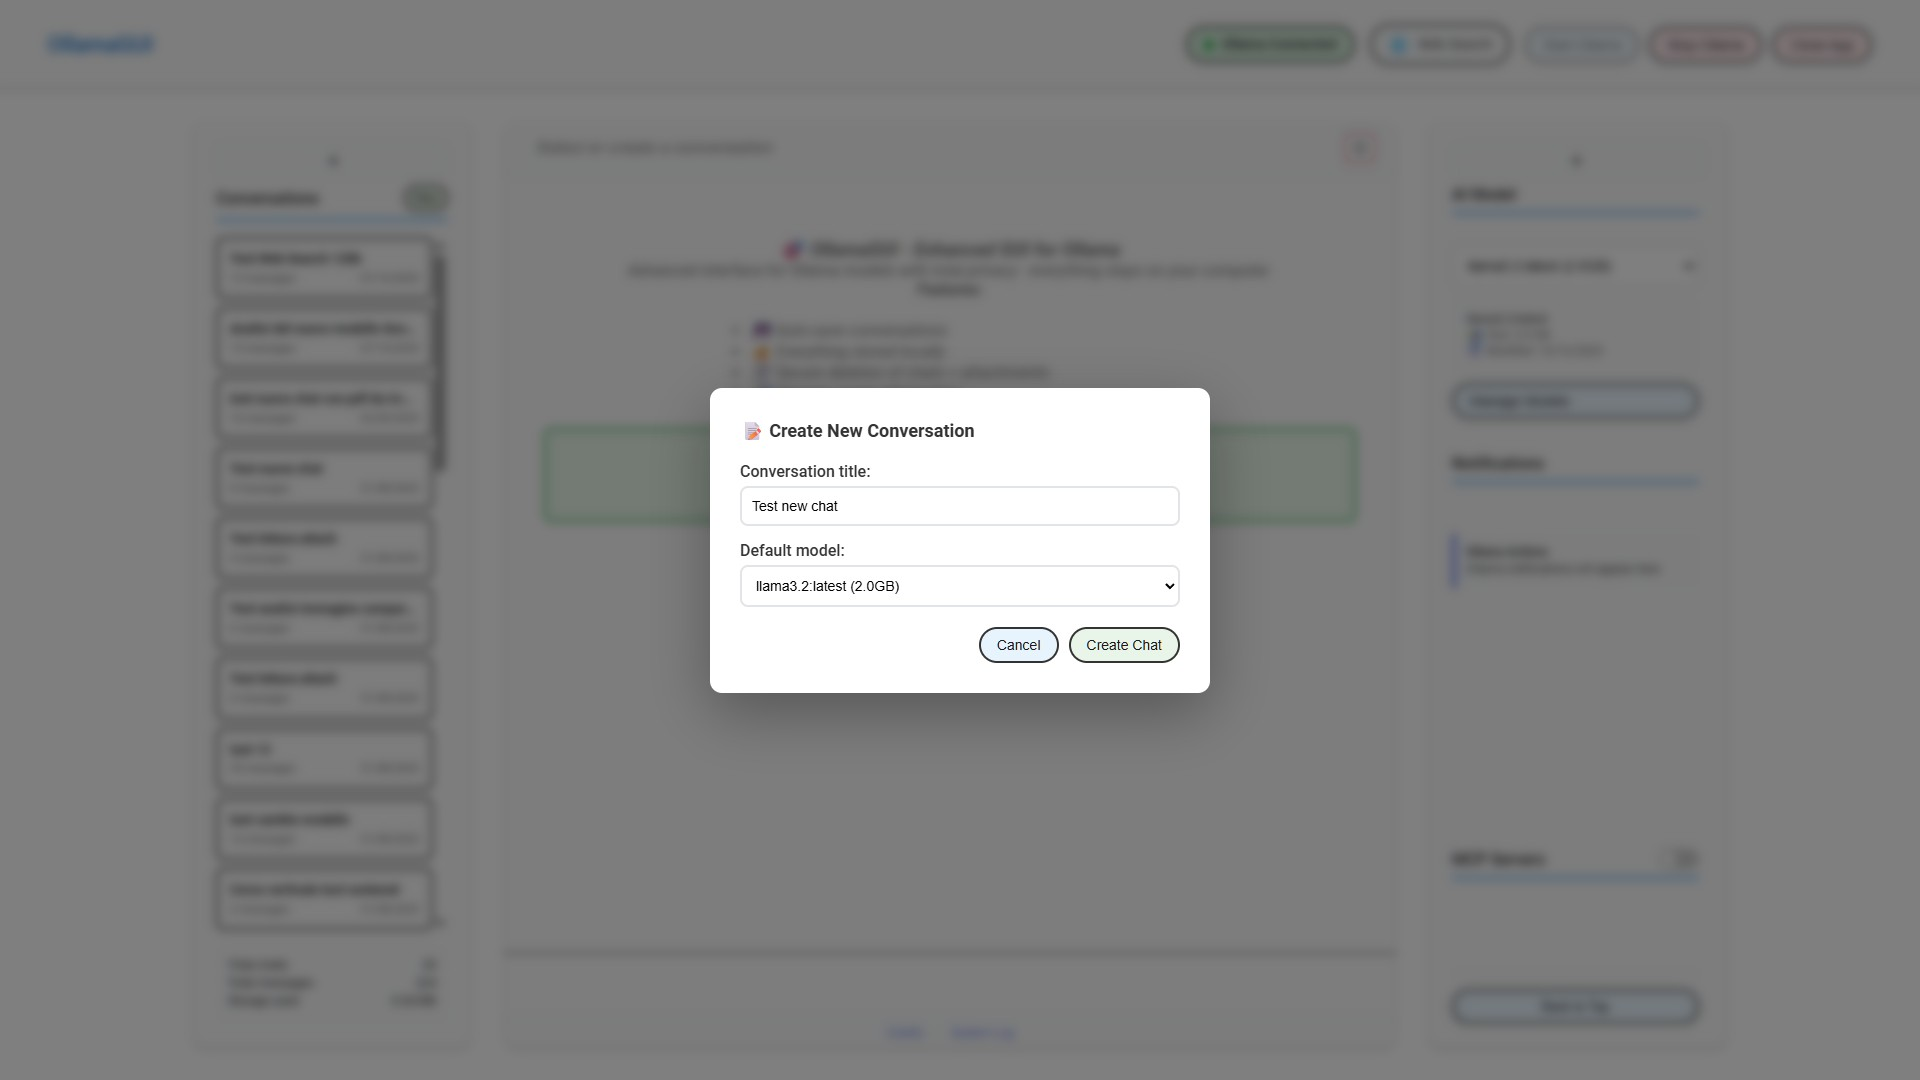
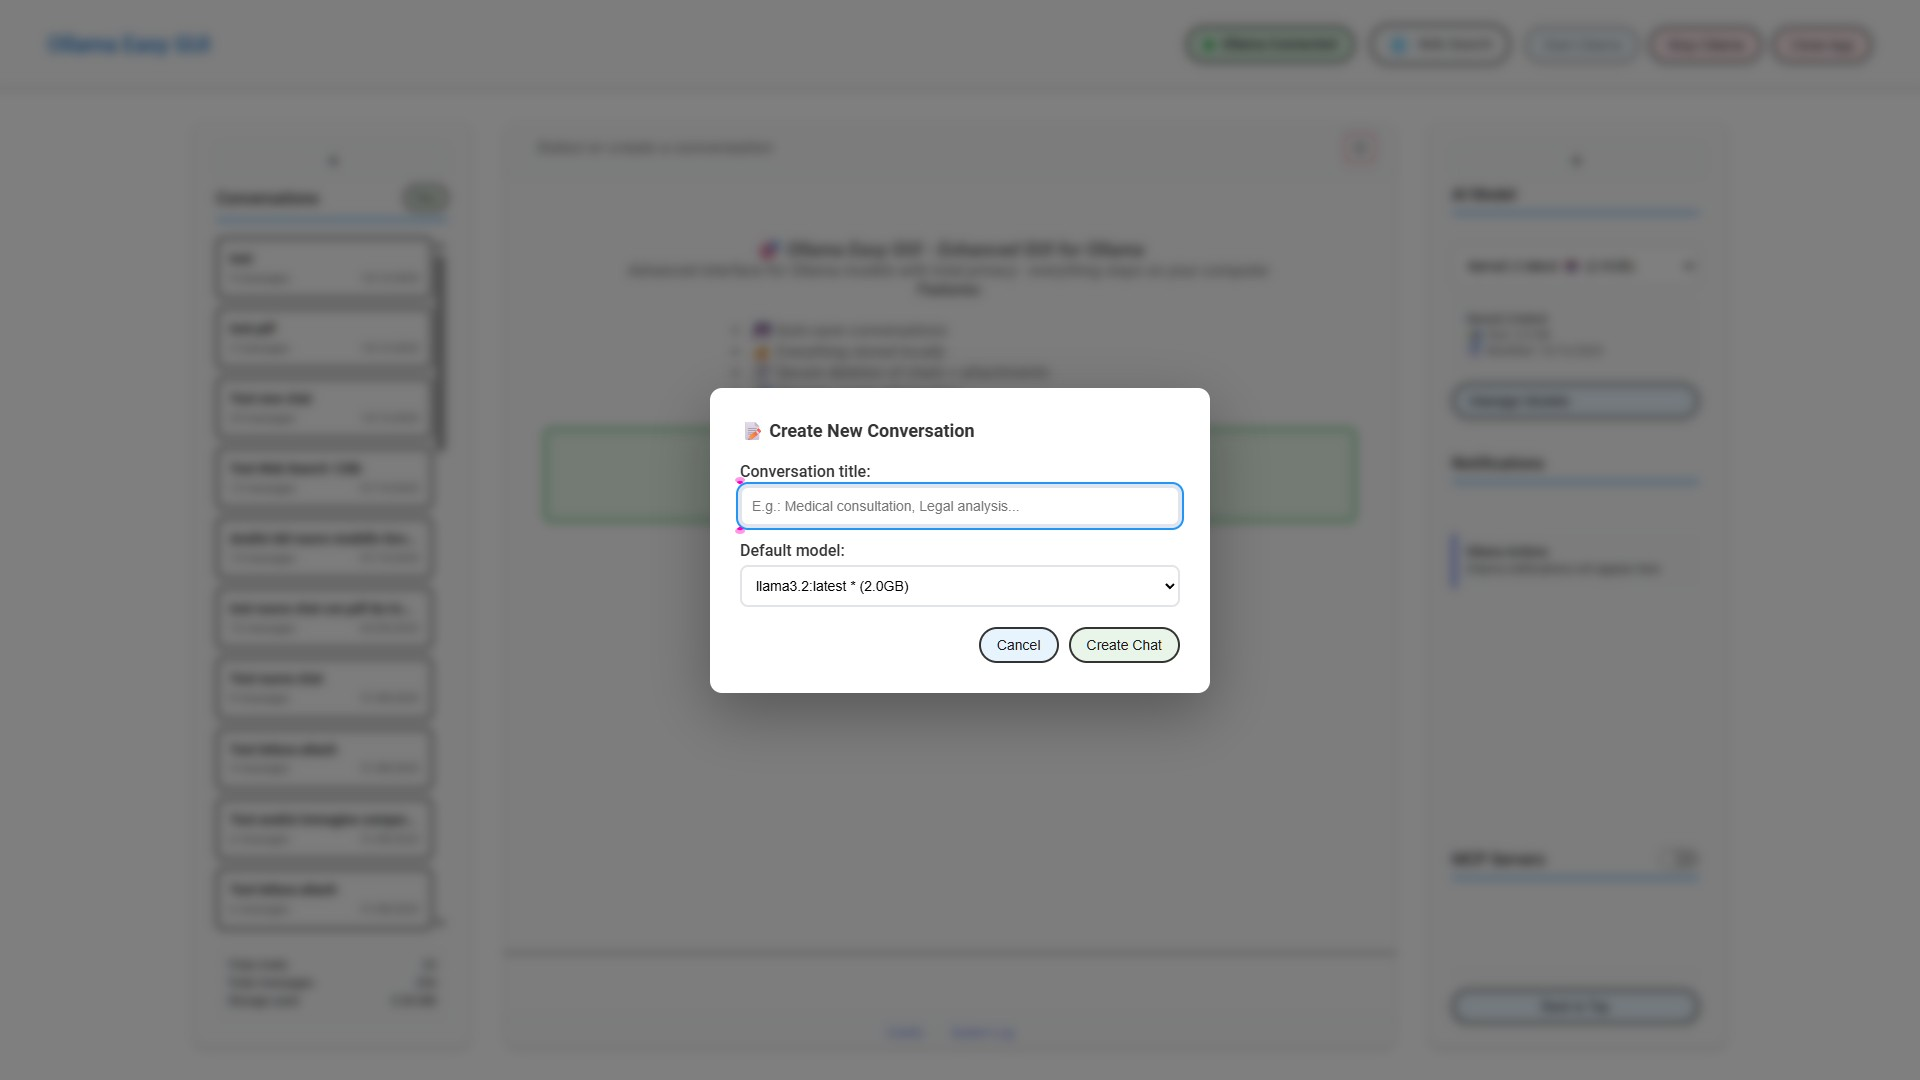
docs: Update README structure and refresh screenshots
- Move Installation section before Screenshots Gallery for better UX
- Add Git as prerequisite (was missing)
- Add new screenshot showing .bat update prompt
- Refresh all screenshots with updated "Ollama Easy GUI" branding

🤖 Generated with [Claude Code](https://claude.com/claude-code)

diff --git a/README.md b/README.md
@@ -69,6 +69,58 @@ Connect your AI to external tools - just like Claude Desktop:
 
 ---
 
+## Installation
+
+### Prerequisites
+
+> **Important**: Ollama Easy GUI is an interface for Ollama. You must have **Ollama installed** on your system first.
+
+1. **Install Ollama** (required): Download from [https://ollama.ai](https://ollama.ai)
+2. **Install Git**: Download from [https://git-scm.com](https://git-scm.com)
+3. **Install Node.js** 16.0.0 or higher: Download from [https://nodejs.org](https://nodejs.org)
+
+### Quick Start
+
+```bash
+# Clone the repository
+git clone https://github.com/paolodalprato/ollama-easy-gui.git
+
+# Navigate to directory
+cd ollama-easy-gui
+
+# Install dependencies (first time only)
+npm install
+
+# Start the application
+npm start
+```
+
+The GUI will open at `http://localhost:3003`
+
+### Windows: Using start-ollama-easy-gui.bat (Recommended)
+
+For Windows users, **double-click `start-ollama-easy-gui.bat`** instead of using `npm start`:
+- **Optional update check** - prompts to run `git pull` (auto-skips after 5 seconds)
+- Checks for Node.js installation
+- **Configures Ollama GPU/CPU settings** (layers, threads, cache)
+- Starts the server and opens the browser automatically
+
+![Update prompt on startup](docs/images/file%20bat%20update.jpg)
+
+You can edit the `.bat` file to customize performance settings for your hardware.
+
+> **Difference**: `npm start` just runs the server. The `.bat` file also offers update checking and configures Ollama environment variables for optimal GPU/CPU usage.
+
+### Updating
+
+To update to the latest version:
+```bash
+git pull
+npm install
+```
+
+---
+
 ## Screenshots Gallery
 
 ### Create New Conversation
@@ -121,55 +173,6 @@ Connect to MCP servers for extended capabilities - filesystem, GitHub, search AP
 Use MCP tools during conversations for file access, data queries, and more:
 
 ![MCP Query](docs/images/MCP%20query.jpg)
-
----
-
-## Installation
-
-### Prerequisites
-
-> **Important**: Ollama Easy GUI is an interface for Ollama. You must have **Ollama installed** on your system first.
-
-1. **Install Ollama** (required): Download from [https://ollama.ai](https://ollama.ai)
-2. **Install Node.js** 16.0.0 or higher: Download from [https://nodejs.org](https://nodejs.org)
-
-### Quick Start
-
-```bash
-# Clone the repository
-git clone https://github.com/paolodalprato/ollama-easy-gui.git
-
-# Navigate to directory
-cd ollama-easy-gui
-
-# Install dependencies (first time only)
-npm install
-
-# Start the application
-npm start
-```
-
-The GUI will open at `http://localhost:3003`
-
-### Windows: Using start-ollama-easy-gui.bat (Recommended)
-
-For Windows users, **double-click `start-ollama-easy-gui.bat`** instead of using `npm start`:
-- **Optional update check** - prompts to run `git pull` (auto-skips after 5 seconds)
-- Checks for Node.js installation
-- **Configures Ollama GPU/CPU settings** (layers, threads, cache)
-- Starts the server and opens the browser automatically
-
-You can edit the `.bat` file to customize performance settings for your hardware.
-
-> **Difference**: `npm start` just runs the server. The `.bat` file also offers update checking and configures Ollama environment variables for optimal GPU/CPU usage.
-
-### Updating
-
-To update to the latest version:
-```bash
-git pull
-npm install
-```
 
 ---
 
